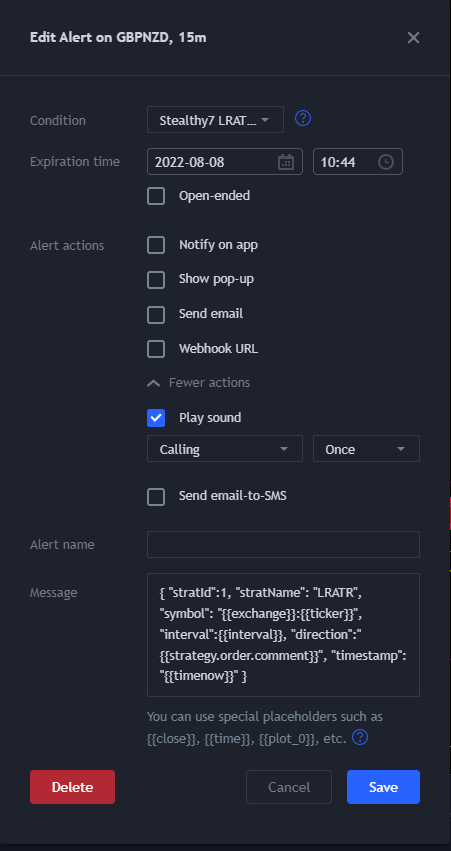
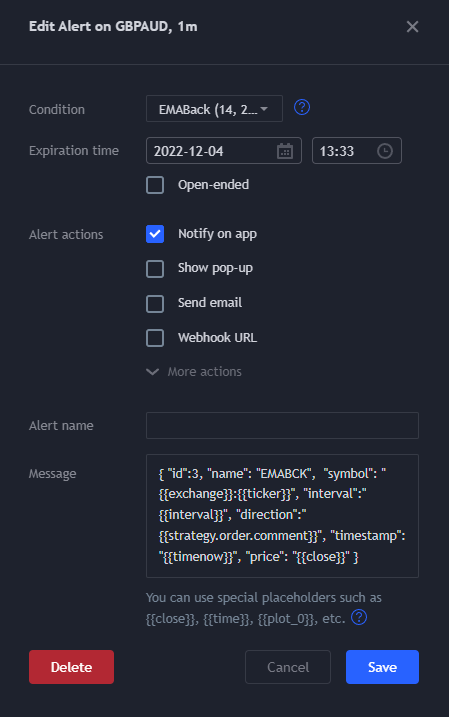
added price information requirement to the alert schema

diff --git a/backend/src/schemas/alerts.py b/backend/src/schemas/alerts.py
@@ -5,48 +5,20 @@ import re
 
 @define
 class TradingViewAlert:
-    stratId: int = field(
-        validator=[
-            validators.instance_of(int),
-            validators.ge(0)
-        ]
-    )
-    stratName: str = field(
-        validator=[
-            validators.instance_of(str),
-        ]
-    )
-    symbol: str = field(
-        validator=[
-            validators.instance_of(str),
-            validators.min_len(1)
-        ]
-    )
-    interval: int = field(
-        validator=[
-            validators.instance_of(int),
-            validators.ge(1)
-        ]
-    )
-    direction: str = field(
-        validator=[
-            validators.instance_of(str),
-            #validators.in_(["BUY", "SELL", "buy", "sell", "Close entry(s) order short", "Close entry(s) order long"])
-            validators.matches_re("(buy|sell|close.*)", flags=re.IGNORECASE)
-        ]
-    )
-    timestamp: str = field(
-        validator=[
-            validators.instance_of(str),
-            validators.min_len(10)
-        ]
-    )
+    id: int = field(validator=[validators.ge(0)])
+    name: str = field()
+    symbol: str = field(validator=[validators.min_len(1)])
+    interval: int = field(validator=[validators.ge(1)])
+    direction: str = field(validator=[validators.matches_re(
+        "(buy|sell|close.*)", flags=re.IGNORECASE)])
+    price: float | int = field(validator=[validators.gt(0.0)])
+    timestamp: str = field(validator=[validators.min_len(10)])
 
 
 class TradingViewAlertSchema:
-    stratId = doc.Integer(
+    id = doc.Integer(
         description="Strategy identifier", required=True)
-    stratName = doc.String(
+    name = doc.String(
         description="Strategy name", required=True)
     symbol = doc.String(
         description="Symbol for the alert", required=True)
@@ -54,5 +26,7 @@ class TradingViewAlertSchema:
         description="Strategy operational timeframe, minimum value 1", required=True)
     direction = doc.String(
         choices=["BUY", "buy", "SELL", "sell", "Close entry(s) order long", "Close entry(s) order short"], description="Strategy direction", required=True)
+    price = doc.Float(
+        description="The current price of the security", required=True)
     timestamp = doc.DateTime(
         description="Timestamp of the alert in UTC time without milliseconds", required=True)

diff --git a/doc/alertformat.md b/doc/alertformat.md
@@ -11,9 +11,10 @@
 
 ```json
 {
-    "stratId":1,
-    "stratName":"LRATR",
+    "id":1,
+    "name":"WINNER",
     "symbol": "{{exchange}}:{{ticker}}",
+    "price": "{{close}}",
     "interval":{{interval}},
     "direction":"{{strategy.order.comment}}",
     "timestamp": "{{timenow}}"
